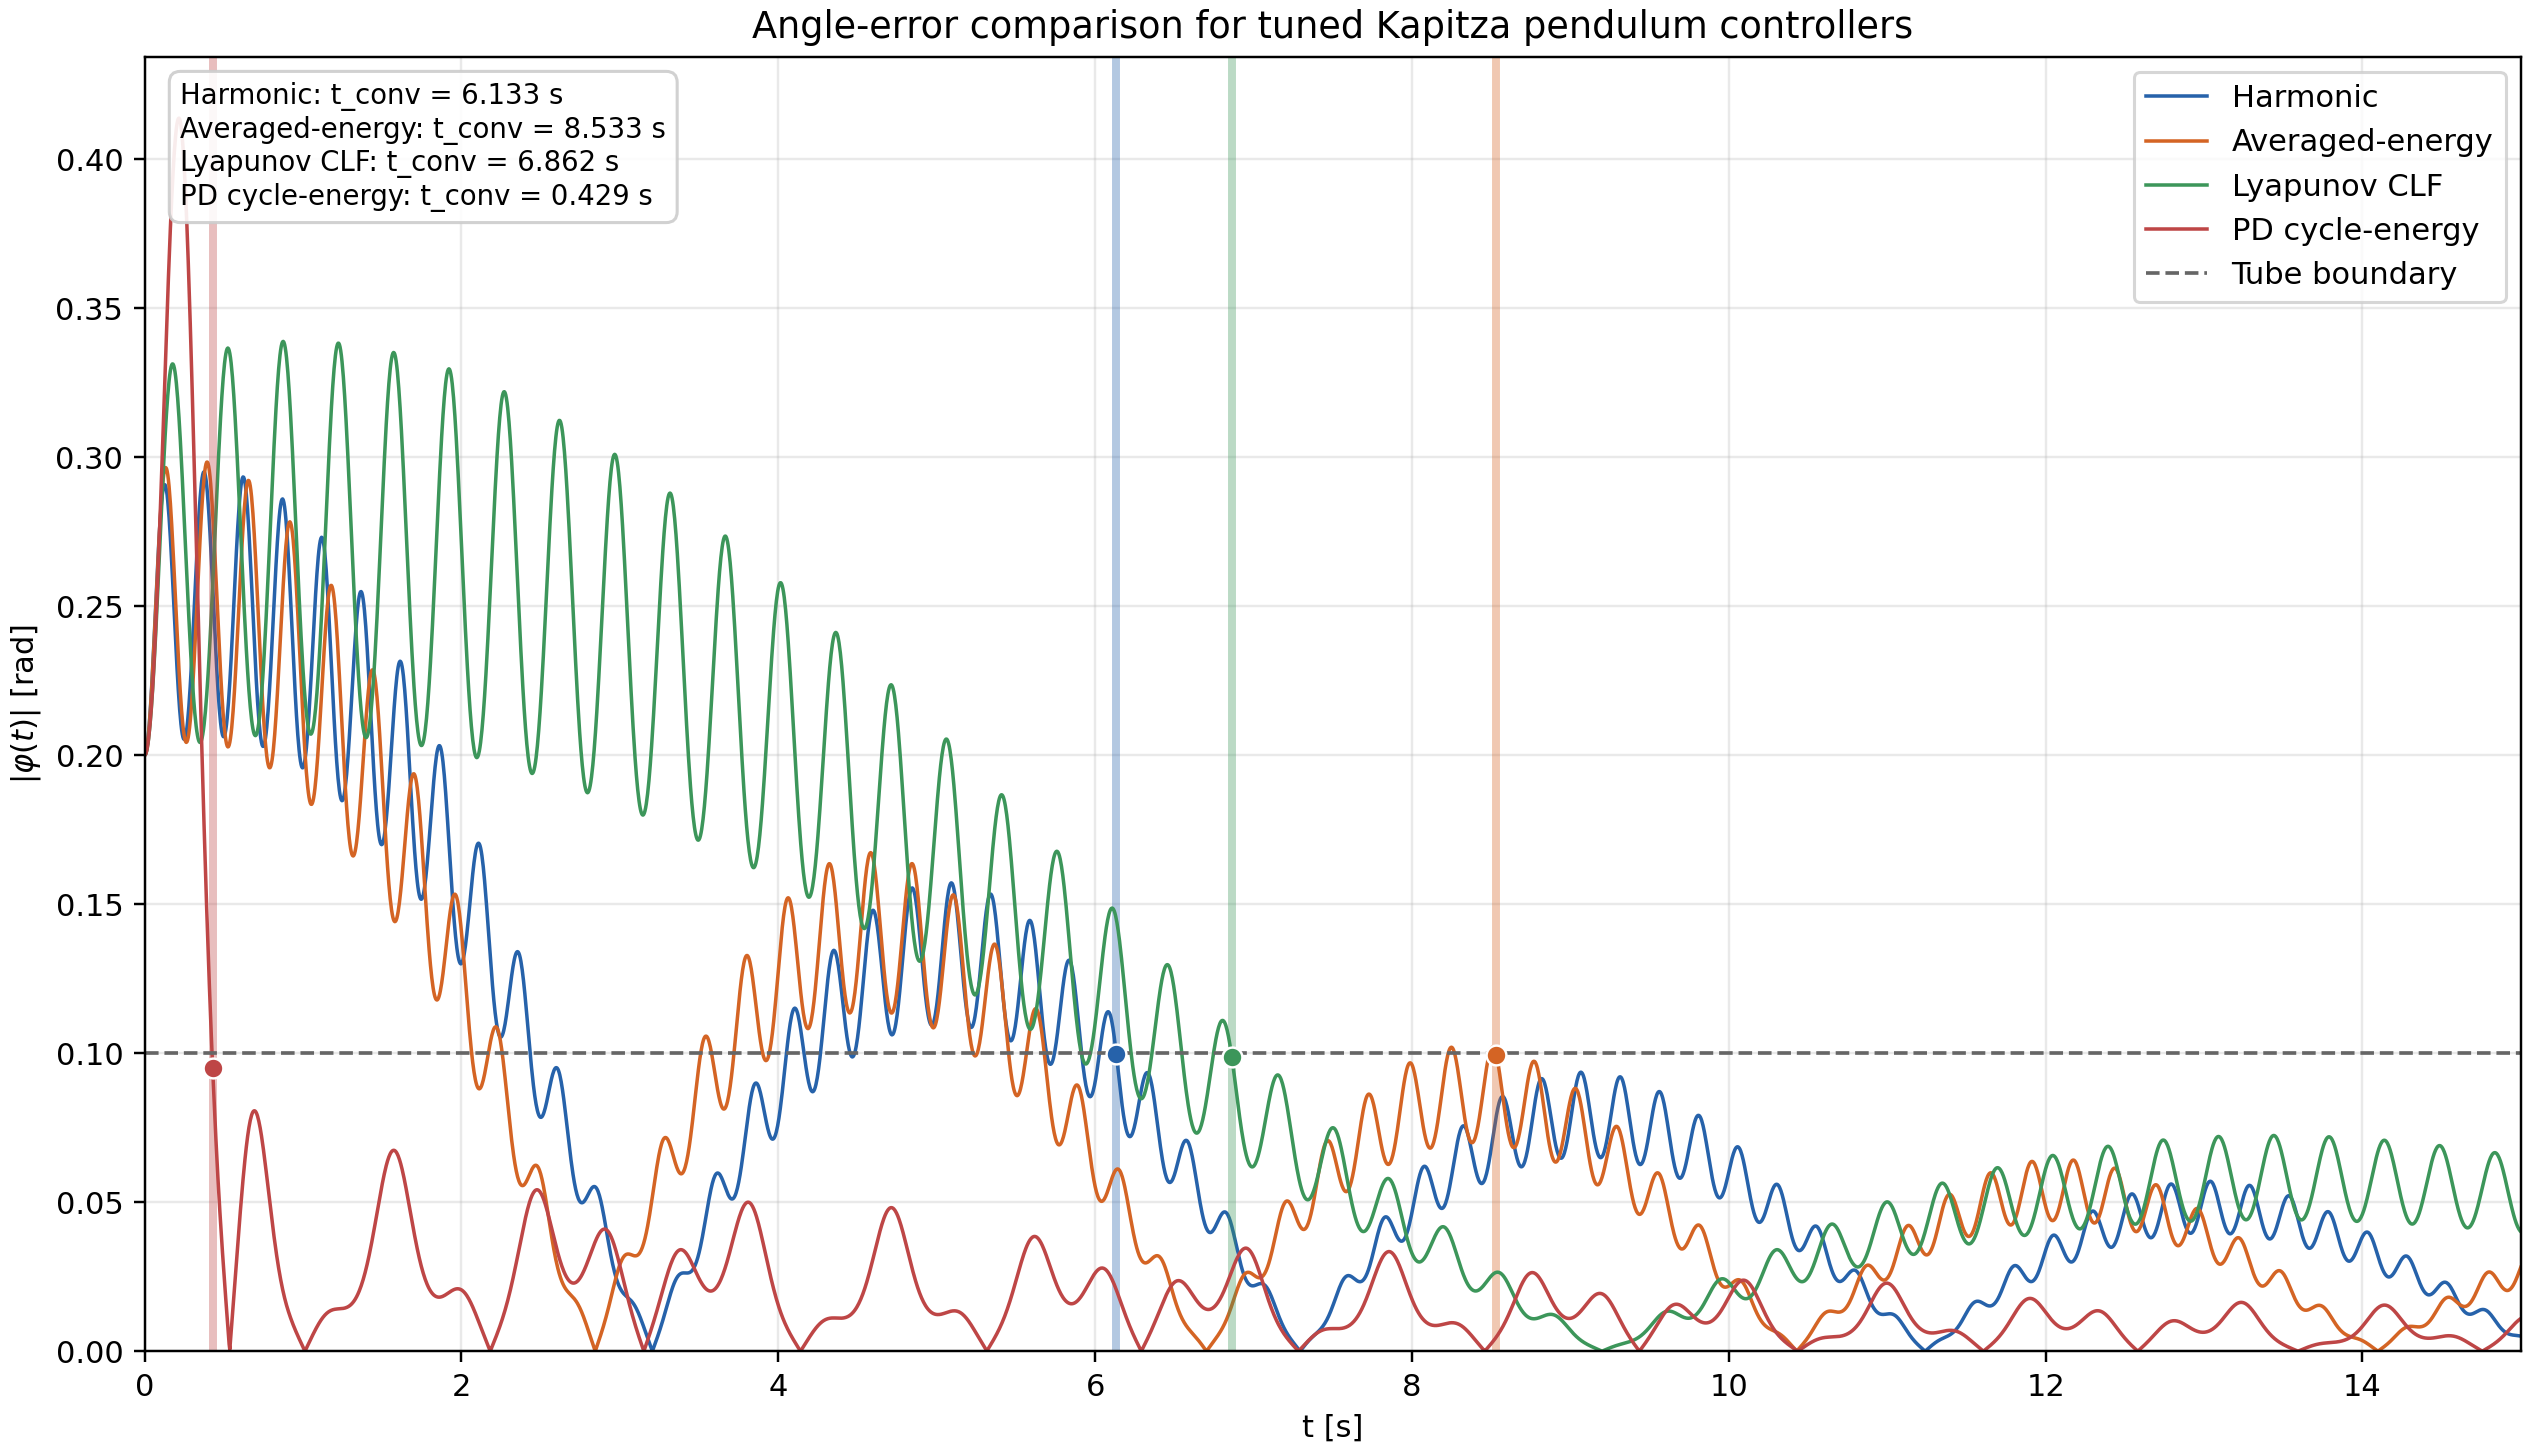
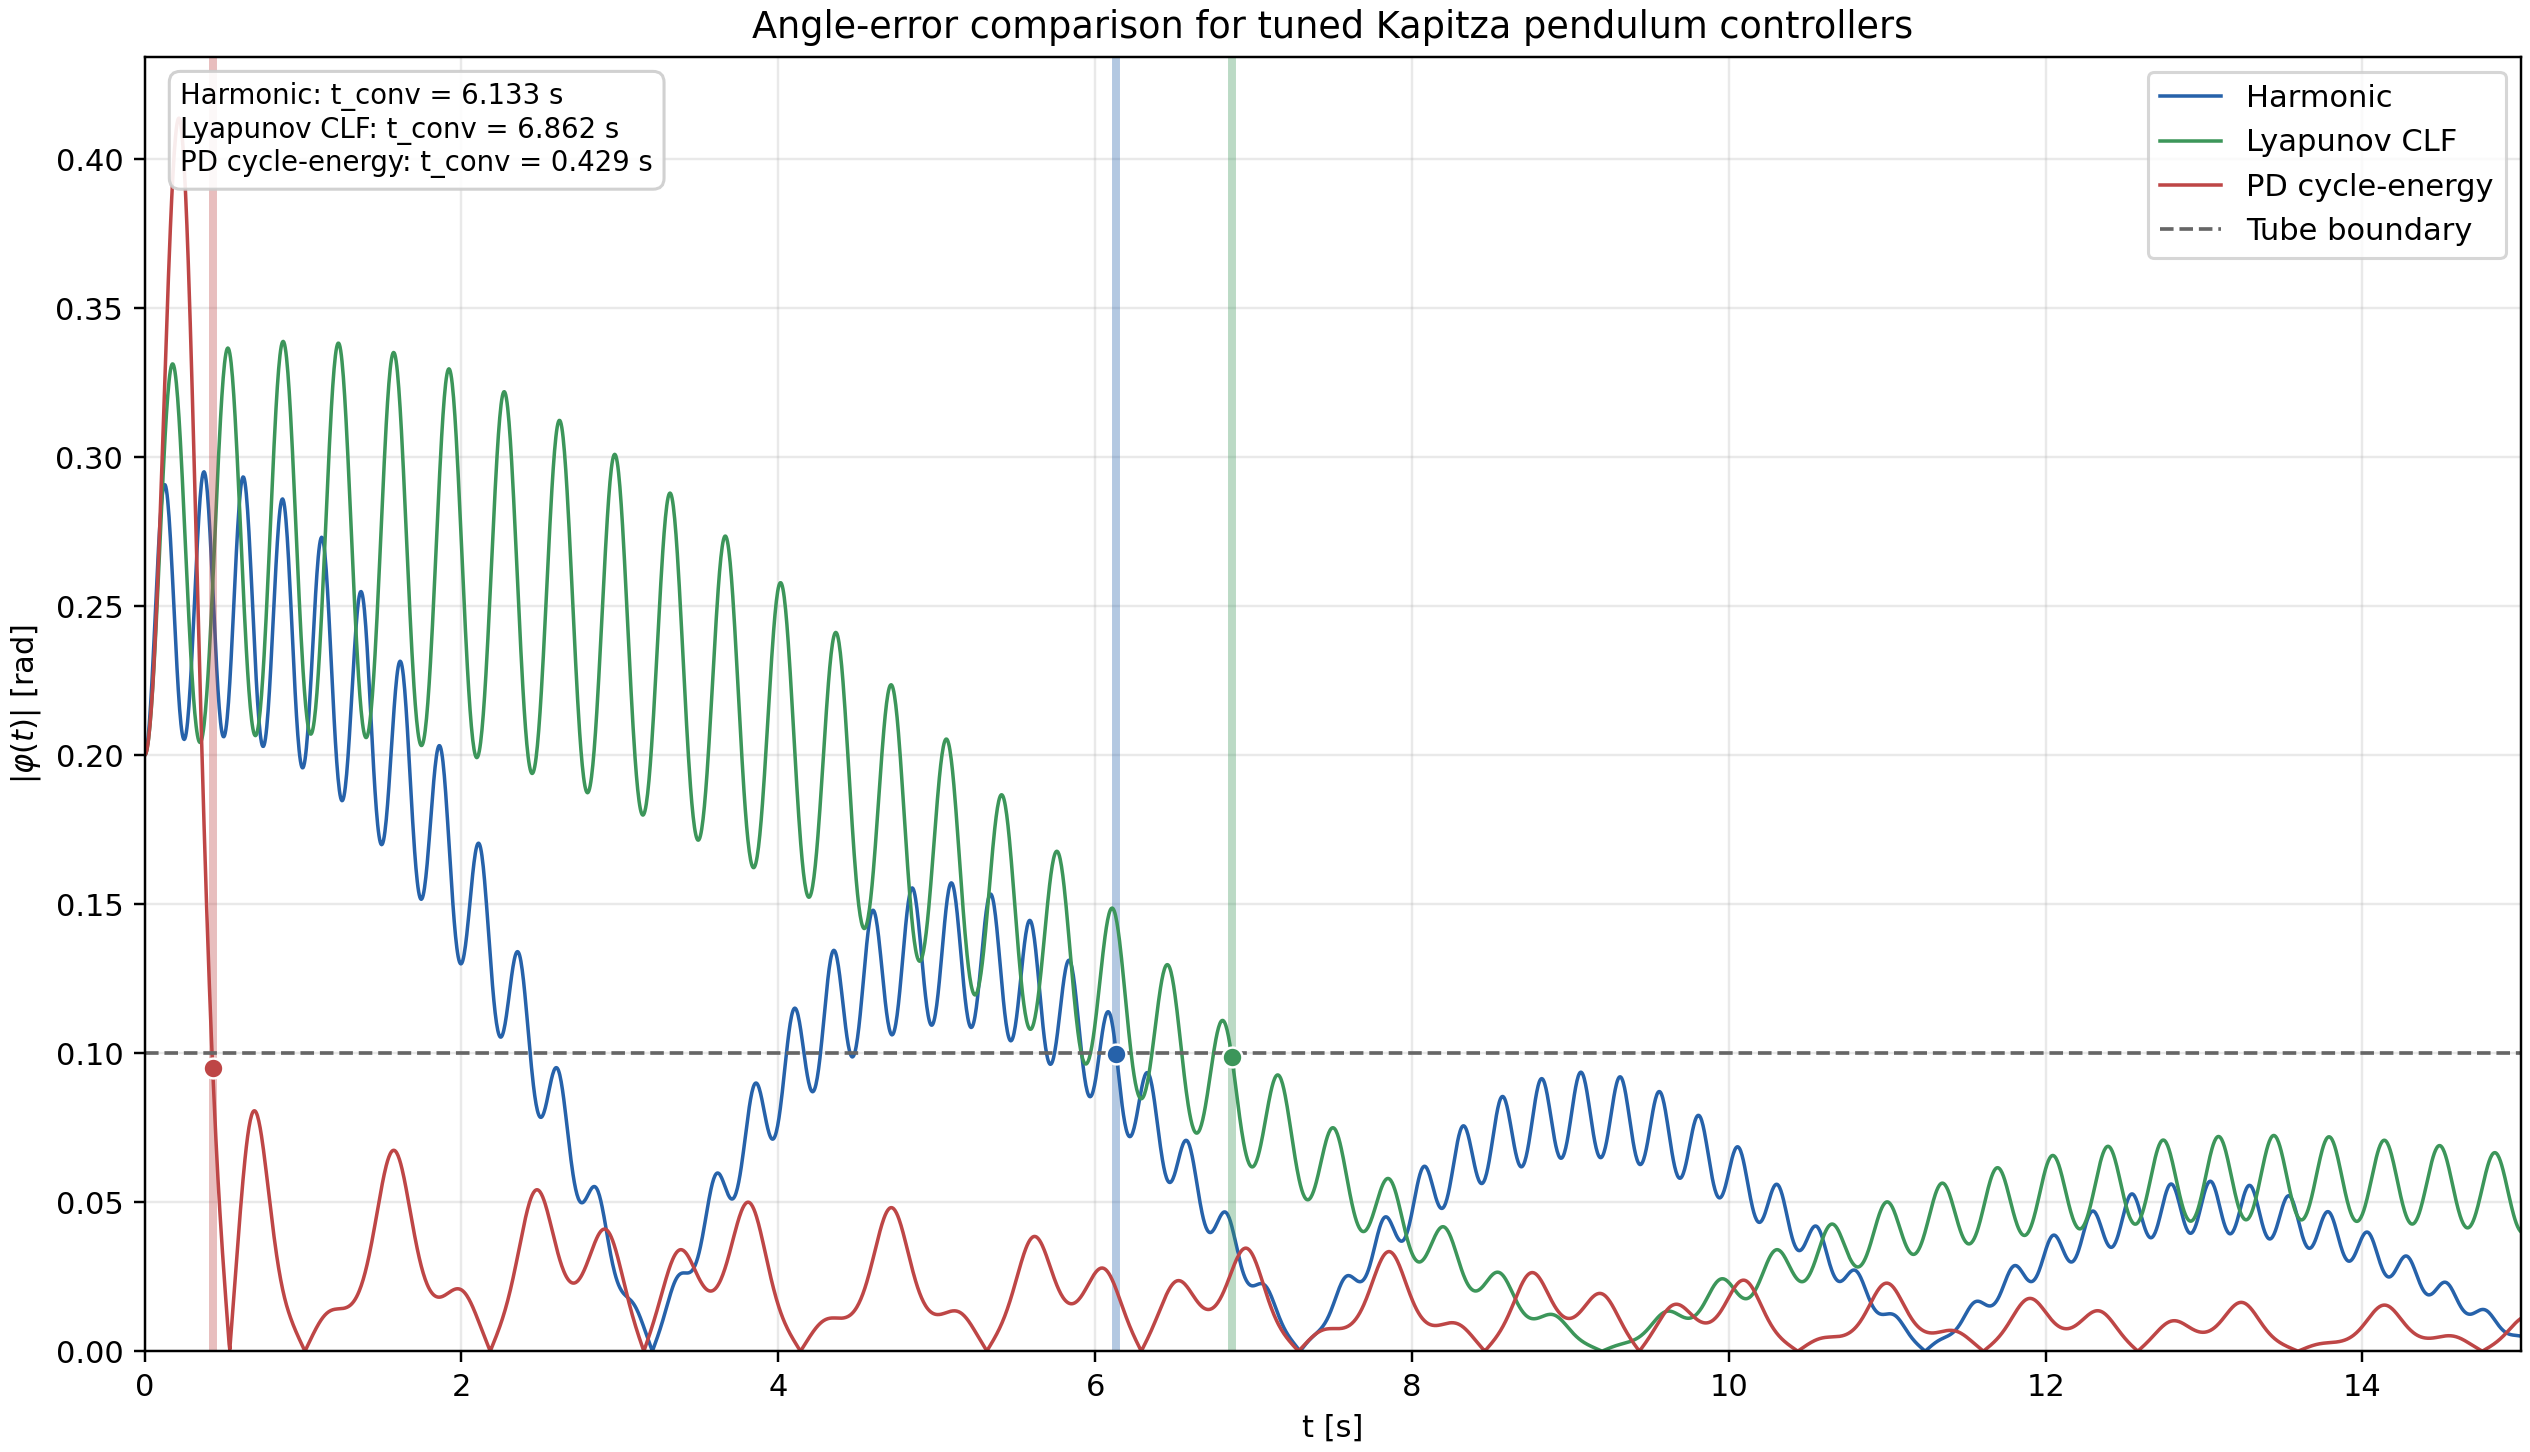
upd(prj1): animations

diff --git a/Project 1/README.md b/Project 1/README.md
@@ -20,9 +20,8 @@ The main goal of the project is to study how a Kapitza pendulum can be stabilize
 | Method | Physically admissible Kapitza control | Main task | Main outcome |
 | --- | --- | --- | --- |
 | Harmonic controller | Yes | Upright stabilization | Stabilizes the upright equilibrium, but with slower transients than feedback-based methods |
-| Averaged-energy controller | Yes | Upright stabilization | Works reliably in the averaged regime, but remains slower than the best tuned feedback laws |
 | PD cycle-energy controller | Yes | Upright stabilization | Fastest practical settling among the tuned physically admissible controllers |
-| CLF controller | Yes | Upright stabilization | Cleanest analytical stability interpretation and strongest local decay behavior |
+| Lyapunov Control Lyapunov Function (CLF) controller | Yes | Upright stabilization | Cleanest analytical stability interpretation and strongest local decay behavior |
 | Adaptive limit-cycle Lyapunov controller | Yes | Zero-mean orbital tracking | Did not achieve substantial orbit tracking; motion stayed near the upright equilibrium |
 | Direct orbit-tracking benchmark | No | Trajectory tracking | Tracks the prescribed orbit well once the zero-mean restriction is removed |
 
@@ -691,8 +690,8 @@ From the graph:
 
 - `PD cycle-energy` has the earliest final entry into the angle tube
 - `Lyapunov CLF` is slightly slower in tube-entry time, but its decay is smoother and more structured
-- `Harmonic` and `Averaged-energy` stabilize the pendulum as well, but with noticeably slower transients
-- all four plotted controllers achieve practical stabilization around the upright position
+- `Harmonic` also stabilizes the pendulum, but with a noticeably slower transient
+- all three plotted controllers achieve practical stabilization around the upright position
 
 The reason the PD controller converges faster is simple: it is less conservative. The PD cycle-energy controller reacts directly to the measured cycle energy and can change the carrier amplitude more aggressively. The Lyapunov controller, by contrast, is designed to enforce a desired averaged stiffness and preserve a clean Lyapunov structure, so it sacrifices some transient speed in exchange for a stronger analytical interpretation.
 
@@ -863,7 +862,7 @@ python src/main.py
 
 ## Current Controllers
 
-The simulator currently includes six controller modes:
+The simulator currently includes five controller modes discussed in this README:
 
 1. Harmonic controller:
 
@@ -883,17 +882,7 @@ $$
 A = 116.5 \text{ m/s}^2,\qquad \omega = 25.3 \text{ rad/s}
 $$
 
-2. Averaged-energy controller:
-
-This controller uses a high-frequency carrier with state-dependent amplitude:
-
-$$
-a(t) = \alpha(s)\cos(\omega t),
-$$
-
-where $\alpha(s)$ increases when the angular state moves farther from the upright equilibrium.
-
-3. Lyapunov controller:
+2. Lyapunov controller:
 
 This controller chooses the carrier amplitude from the desired stiffness law
 
@@ -903,7 +892,7 @@ $$
 
 In the current default implementation, `k_0 = 0.35` and `k_1 = 2.35`.
 
-4. Limit-cycle Lyapunov controller:
+3. Limit-cycle Lyapunov controller:
 
 This controller targets a nonzero periodic orbit around the upright equilibrium using a carrier with state-dependent amplitude:
 
@@ -913,7 +902,7 @@ $$
 
 Its objective is not point stabilization but orbital tracking toward a prescribed oscillation with target amplitude `A*` and frequency `w*`.
 
-5. PD position controller:
+4. PD position controller:
 
 This controller applies PD feedback to the angle magnitude and uses it to modulate the carrier amplitude:
 
@@ -923,7 +912,7 @@ $$
 
 It is the simplest feedback baseline in the project.
 
-6. PD cycle-energy controller:
+5. PD cycle-energy controller:
 
 This controller updates the amplitude once per carrier cycle using an energy proxy:
 
@@ -970,11 +959,10 @@ So this controller is Lyapunov-based on the exact vertical dynamics, rather than
 ## Pygame Controls
 
 - `1` selects the harmonic controller
-- `2` selects the averaged-energy controller
-- `3` selects the Lyapunov controller
-- `4` selects the limit-cycle Lyapunov controller
-- `5` selects the PD position controller
-- `6` selects the PD cycle-energy controller
+- `2` selects the Lyapunov controller
+- `3` selects the limit-cycle Lyapunov controller
+- `4` selects the PD position controller
+- `5` selects the PD cycle-energy controller
 - `Up` and `Down` increase or decrease the harmonic amplitude
 - `Left` and `Right` increase or decrease the harmonic frequency
 - `Z` and `C` select `kp` and `kd` for PD tuning
@@ -990,7 +978,6 @@ The repository contains standalone scripts that generate GIF animations for the 
 
 - `python generate_frequency_ramp_gif.py`
 - `python generate_harmonic_gif.py`
-- `python generate_averaged_energy_gif.py`
 - `python generate_lyapunov_gif.py`
 - `python generate_direct_lyapunov_gif.py`
 - `python generate_pid_position_gif.py`
